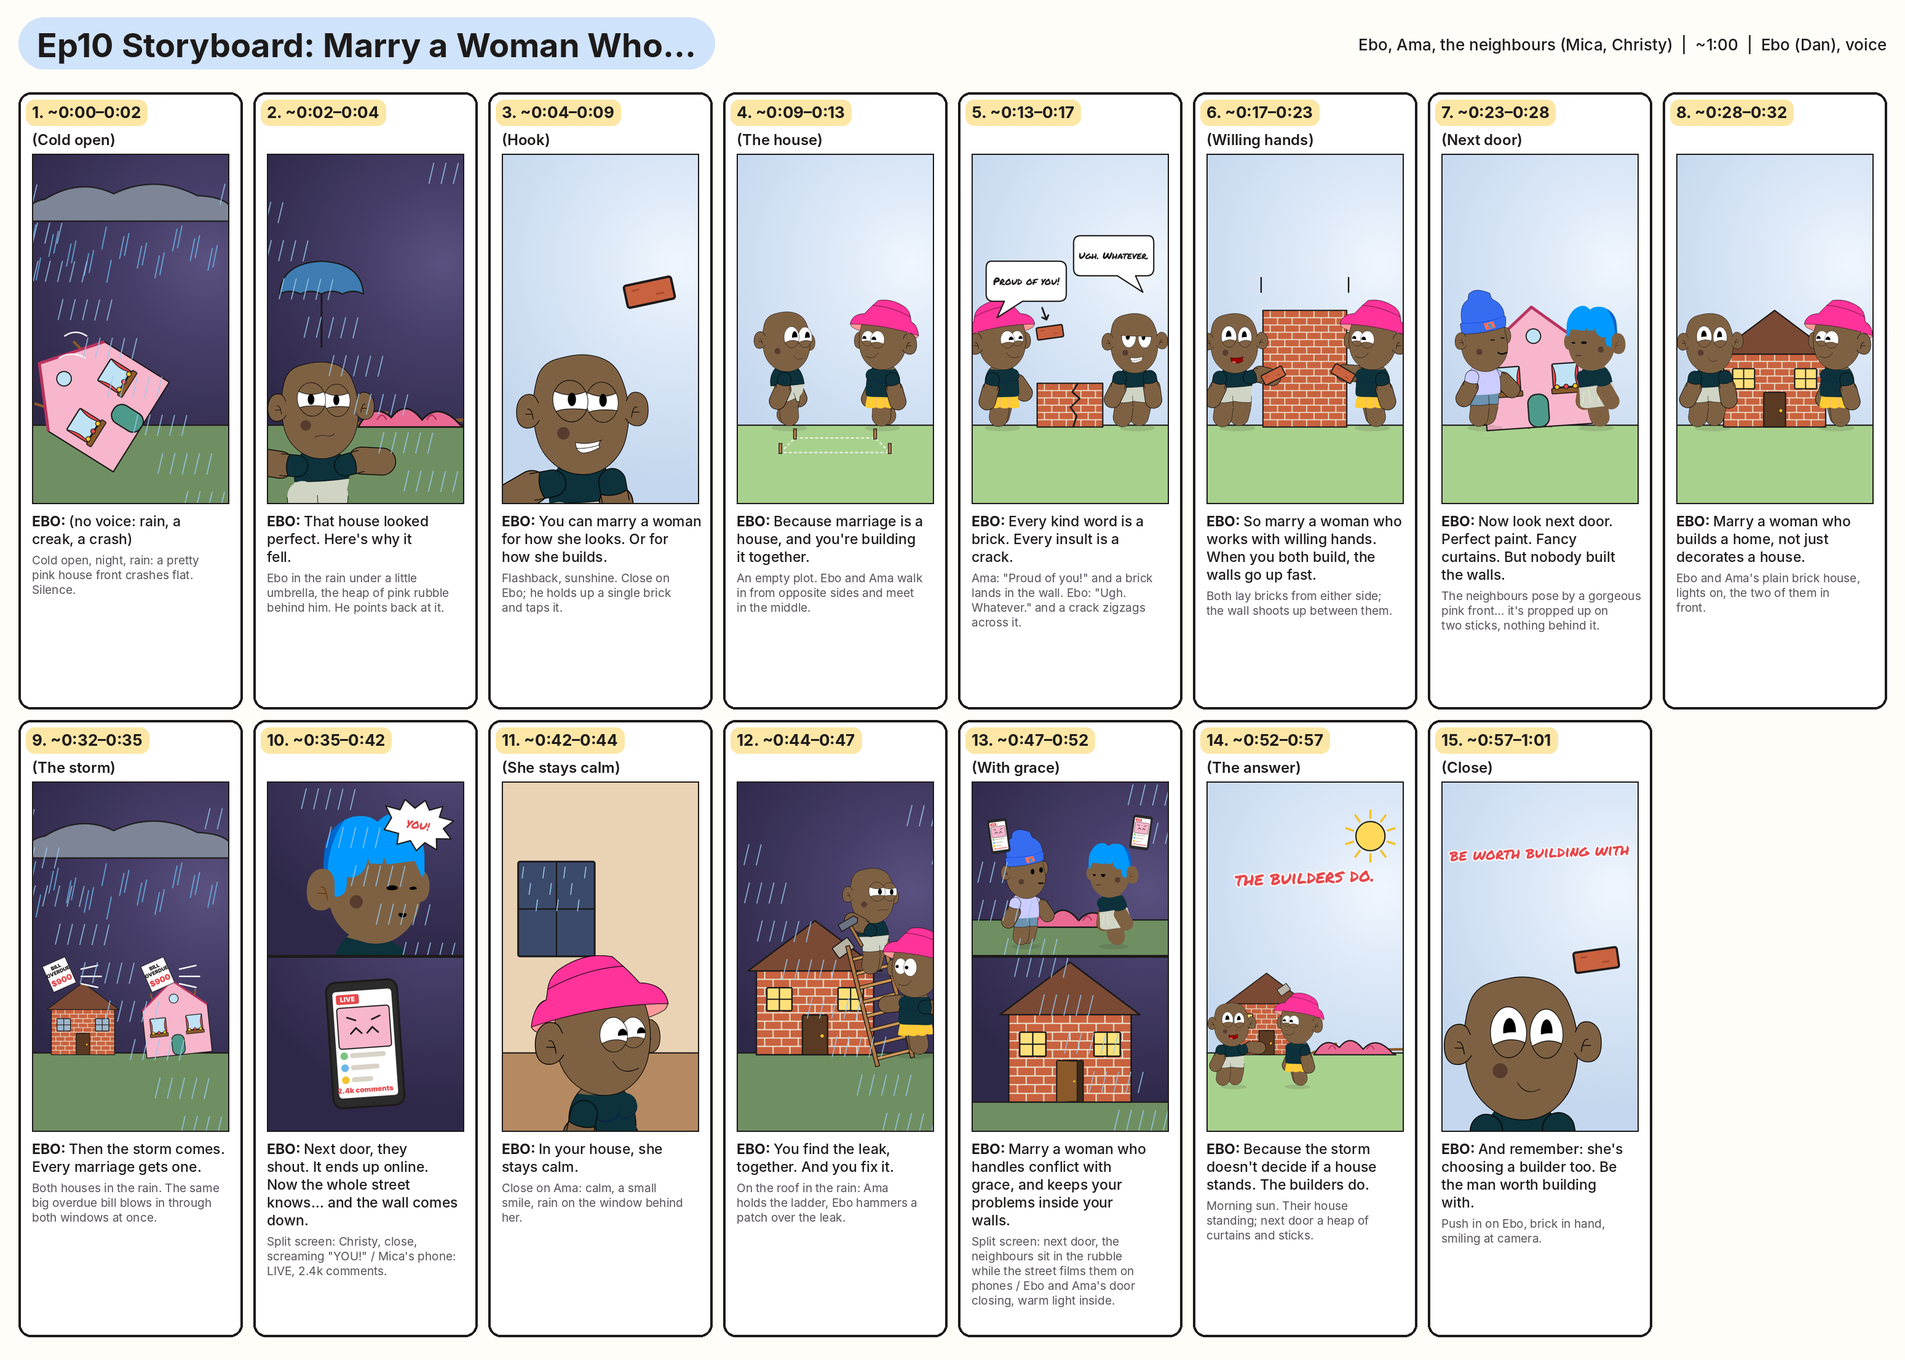
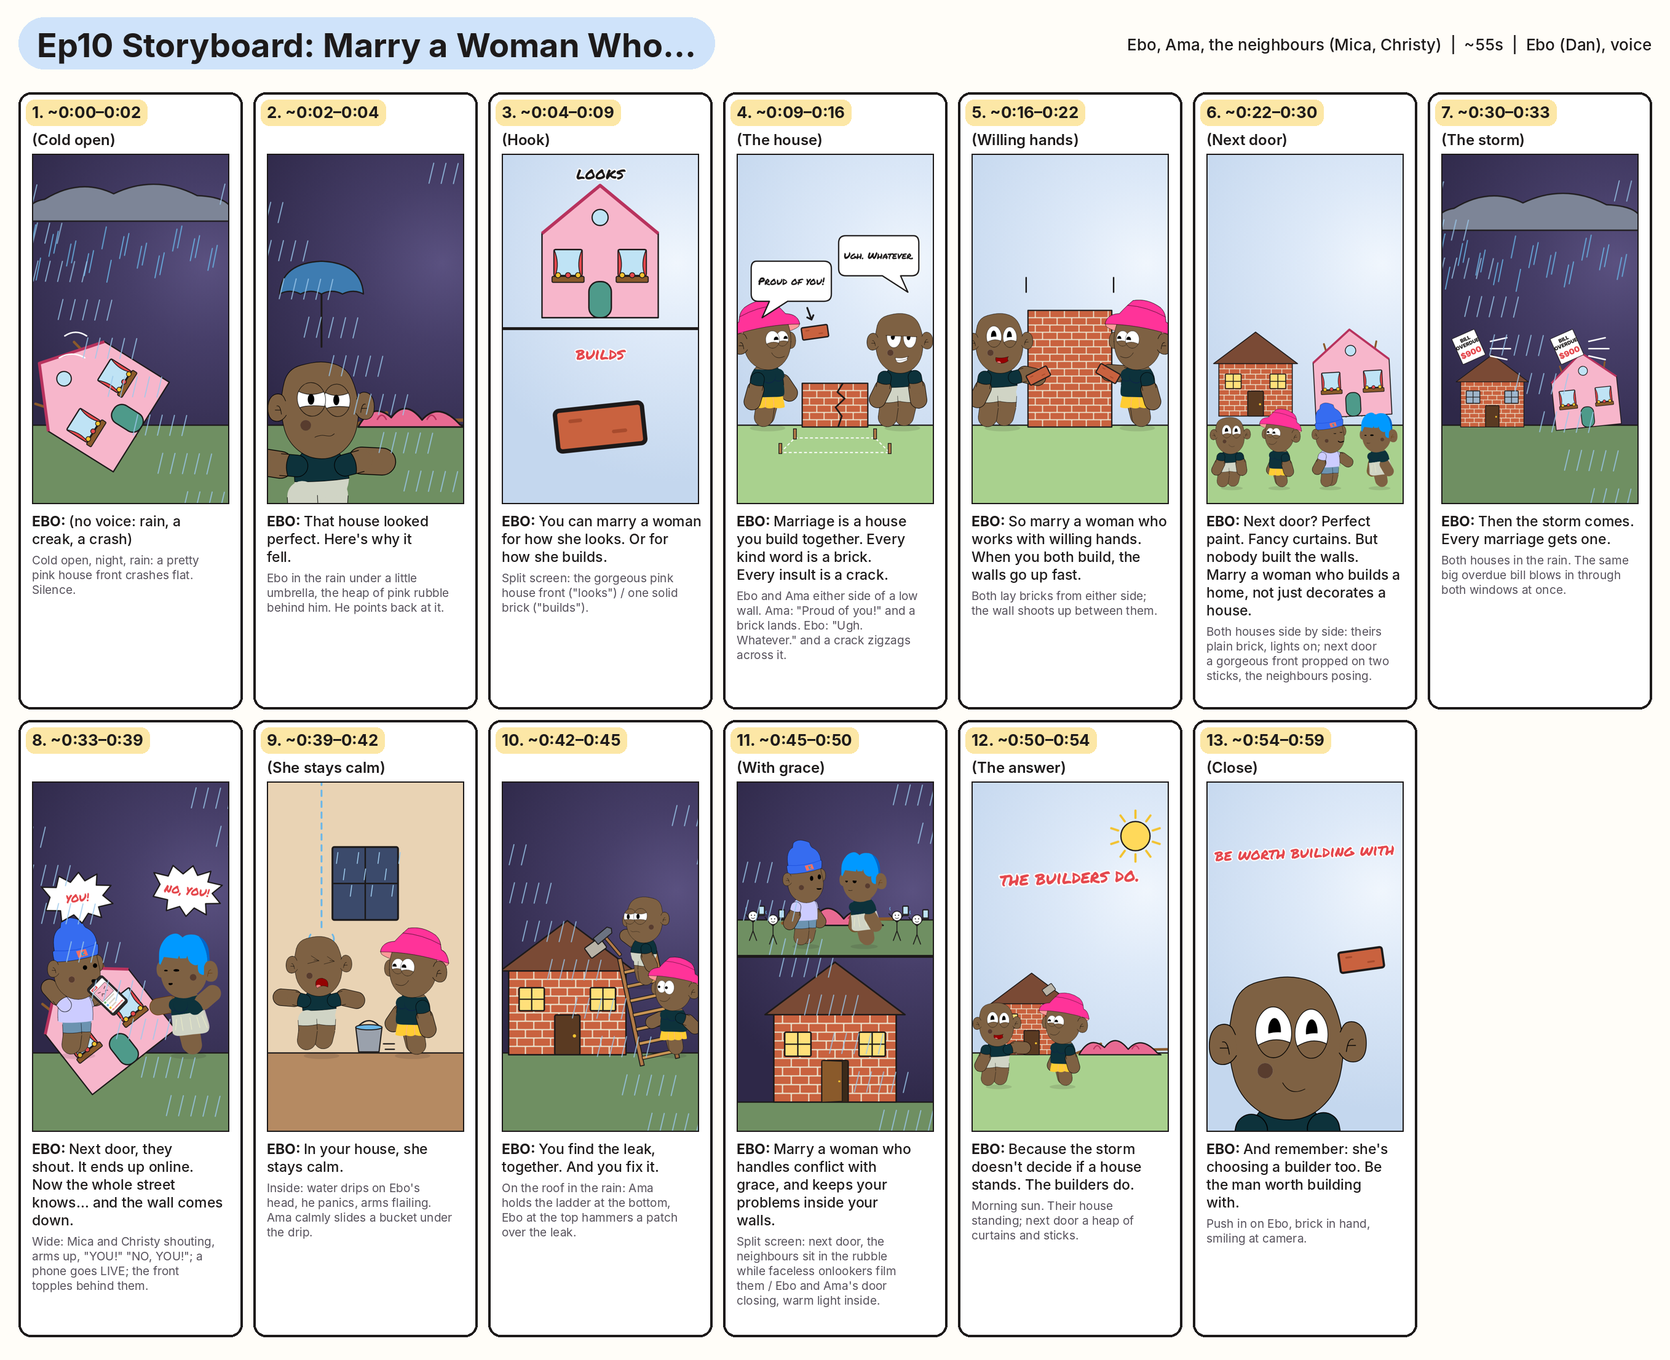
Ep10 script draft 5 and storyboard v3: picture hook, merged build-up, Ebo panics while Ama stays calm, wide fight, cleaner roof
Claude-Session: https://claude.ai/code/session_01Kn9As8DfxPWEV47cuNZdJi

diff --git a/src/series/ep10board.tsx b/src/series/ep10board.tsx
@@ -10,22 +10,22 @@ import {Backdrop} from './sets';
 import {StageSizeContext} from './exportCtx';
 import {Label, useMarkerFont} from './filterKit';
 import {Brick, BrickWall, Bucket, Door, FakeFront, Hammer, House, Plot, PostedPhone, Shout, Storm, Sun, TalkTable} from '../components/HouseProps';
-import {Arrow, FeeSlip, Ladder, SayBubble} from '../components/PovertyProps';
+import {Arrow, FeeSlip, Ladder, SayBubble, StickGuy} from '../components/PovertyProps';
 
 /**
  * Ep 10 "Marry a Woman Who…": the storyboard, one panel per frame (no voice yet, so these are stills, not the
  * animated episode). Ebo and his wife (Ama) build one house; next door the neighbours (Mica, Christy) only
  * decorate theirs; a storm hits both.
  */
-export const EP10_BOARD_PANELS = 15;
+export const EP10_BOARD_PANELS = 13;
 const FLOOR = 1500;
 
 type Look = Partial<Pose>;
-const Ebo: React.FC<{x: number; y?: number; s?: number; p?: Look; front?: boolean; hold?: React.ReactNode; touch?: keyof typeof CONTACT}> = ({x, y = FLOOR, s = 1.3, p = {}, front = true, hold, touch}) => {
+const Ebo: React.FC<{x: number; y?: number; s?: number; p?: Look; front?: boolean; facing?: 1 | -1; hold?: React.ReactNode; touch?: keyof typeof CONTACT}> = ({x, y = FLOOR, s = 1.3, p = {}, front = true, facing = 1, hold, touch}) => {
   let pose = {...POSE.stand, ...p} as Pose;
   if (touch) pose = {...pose, ...CONTACT[touch], ...p, contact: true, view: 1} as Pose;
   return (
-    <RigCharacter who="ebo" x={x} y={y} scale={s} t={0} noBlink pose={front ? gentle(frontOn(pose)) : gentle(pose)}>
+    <RigCharacter who="ebo" x={x} y={y} scale={s} facing={facing} t={0} noBlink pose={front ? gentle(frontOn(pose)) : gentle(pose)}>
       {hold}
     </RigCharacter>
   );
@@ -93,7 +93,16 @@ const Room: React.FC = () => (
   </g>
 );
 
-/** The 15 panels (the script's 15 lines, episodes/ep10/script.md). */
+/** A faceless onlooker filming on a phone. */
+const Filmer: React.FC<{x: number; y: number; k?: number}> = ({x, y, k = 0.55}) => (
+  <g transform={`translate(${x} ${y}) scale(${k})`}>
+    <StickGuy pose="climb" />
+    <rect x={56} y={-250} width={60} height={100} rx={10} fill="#2B2B2B" stroke="#1D1A1A" strokeWidth={6} />
+    <rect x={64} y={-240} width={44} height={70} rx={4} fill="#BFE3F5" />
+  </g>
+);
+
+/** The 13 panels (the script's 13 lines, episodes/ep10/script.md). */
 const PANELS: (() => React.ReactNode)[] = [
   // 1 · cold open: the pretty house crashes down in the rain
   () => (
@@ -119,27 +128,29 @@ const PANELS: (() => React.ReactNode)[] = [
   ),
   // 3 · You can marry a woman for how she looks. Or for how she builds.
   () => (
-    <g>
-      <Sky />
-      <g transform="translate(810 760) rotate(-12) scale(2.2)"><Brick /></g>
-      <Ebo x={470} y={2350} s={2.6} p={{eyes: 'squint', mouth: 'smirk', lookX: 12, lookY: -10, armL: [80, -30], brows: 'up'}} />
-    </g>
+    <Split
+      top={
+        <g>
+          <Sky />
+          <g transform="translate(540 900) scale(1.1)"><FakeFront /></g>
+          <Label x={540} y={140} text="looks" size={90} />
+        </g>
+      }
+      bottom={
+        <g>
+          <Sky />
+          <g transform="translate(540 1500) rotate(-6) scale(4)"><Brick /></g>
+          <Label x={540} y={1130} text="builds" red size={90} />
+        </g>
+      }
+    />
   ),
-  // 4 · Because marriage is a house, and you're building it together.
+  // 4 · Marriage is a house you build together. Every kind word is a brick. Every insult is a crack.
   () => (
     <g>
       <Sky />
       <Ground />
       <g transform={`translate(540 ${FLOOR + 140})`}><Plot /></g>
-      <Ebo x={290} p={{eyes: 'happy', mouth: 'smile', legL: [20, 6], legR: [-8, 0]}} front={false} />
-      <Side who="ama" x={800} facing={-1} p={{eyes: 'happy', mouth: 'smile', legL: [20, 6], legR: [-8, 0]}} />
-    </g>
-  ),
-  // 5 · Every kind word is a brick. Every insult is a crack.
-  () => (
-    <g>
-      <Sky />
-      <Ground />
       <g transform={`translate(540 ${FLOOR})`}><BrickWall w={360} rows={6} crack /></g>
       <Side who="ama" x={170} p={{eyes: 'happy', mouth: 'smile', armR: [60, -30]}} />
       <Ebo x={910} p={{eyes: 'half', mouth: 'smirk', lookX: -10}} />
@@ -150,7 +161,7 @@ const PANELS: (() => React.ReactNode)[] = [
       <Label x={780} y={578} text="Ugh. Whatever." size={52} />
     </g>
   ),
-  // 6 · So marry a woman who works with willing hands. When you both build, the walls go up fast.
+  // 5 · So marry a woman who works with willing hands. When you both build, the walls go up fast.
   () => (
     <g>
       <Sky />
@@ -161,27 +172,20 @@ const PANELS: (() => React.ReactNode)[] = [
       <path d="M 300 760 l 0 -80 M 780 760 l 0 -80" stroke="#1D1A1A" strokeWidth={8} strokeLinecap="round" />
     </g>
   ),
-  // 7 · Now look next door. Perfect paint. Fancy curtains. But nobody built the walls.
+  // 6 · Next door? Perfect paint. Fancy curtains. But nobody built the walls. Marry a woman who builds a home…
   () => (
     <g>
       <Sky />
       <Ground />
-      <g transform={`translate(540 ${FLOOR})`}><FakeFront side tilt={-4} /></g>
-      <Side who="mica" x={240} p={{eyes: 'happy', mouth: 'smile', armR: [60, -30]}} />
-      <Side who="christy" x={850} facing={-1} p={{eyes: 'happy', mouth: 'smile'}} />
+      <g transform={`translate(270 ${FLOOR - 60}) scale(0.72)`}><House /></g>
+      <g transform={`translate(810 ${FLOOR - 60}) scale(0.72)`}><FakeFront side tilt={-3} /></g>
+      <Ebo x={140} y={FLOOR + 330} s={0.8} p={{eyes: 'happy', mouth: 'smile'}} />
+      <Side who="ama" x={400} y={FLOOR + 330} s={0.8} facing={-1} p={{eyes: 'happy', mouth: 'smile'}} />
+      <Side who="mica" x={680} y={FLOOR + 330} s={0.8} p={{eyes: 'happy', mouth: 'smile', armR: [70, -30]}} />
+      <Side who="christy" x={950} y={FLOOR + 330} s={0.8} facing={-1} p={{eyes: 'happy', mouth: 'smile'}} />
     </g>
   ),
-  // 8 · Marry a woman who builds a home, not just decorates a house.
-  () => (
-    <g>
-      <Sky />
-      <Ground />
-      <g transform={`translate(540 ${FLOOR})`}><House /></g>
-      <Ebo x={200} p={{eyes: 'happy', mouth: 'smile'}} />
-      <Side who="ama" x={880} facing={-1} p={{eyes: 'happy', mouth: 'smile'}} />
-    </g>
-  ),
-  // 9 · Then the storm comes. Every marriage gets one.
+  // 7 · Then the storm comes. Every marriage gets one.
   () => (
     <g>
       <Sky storm />
@@ -194,49 +198,46 @@ const PANELS: (() => React.ReactNode)[] = [
       <Rain seed={2} />
     </g>
   ),
-  // 10 · Next door, they shout. It ends up online. Now the whole street knows… and the wall comes down.
-  () => (
-    <Split
-      topDy={-840}
-      top={
-        <g>
-          <Sky storm />
-          <Side who="christy" x={540} y={2350} s={2.6} p={{eyes: 'angry', mouth: 'scream', lookX: 12}} />
-          <g transform="translate(830 1080)"><Shout text="YOU!" rotate={8} /></g>
-          <Rain seed={3} />
-        </g>
-      }
-      bottomDy={0}
-      bottom={
-        <g>
-          <Sky storm />
-          <g transform="translate(540 1440) scale(1.5) rotate(-4)"><PostedPhone /></g>
-        </g>
-      }
-    />
-  ),
-  // 11 · In your house, she stays calm.
-  () => (
-    <g>
-      <Room />
-      <Window x={300} y={700} />
-      <Side who="ama" x={560} y={2350} s={2.6} p={{eyes: 'happy', mouth: 'smile', lookX: 10}} />
-    </g>
-  ),
-  // 12 · You find the leak, together. And you fix it.
+  // 8 · Next door, they shout. It ends up online. Now the whole street knows… and the wall comes down.
   () => (
     <g>
       <Sky storm />
       <Ground storm />
-      <g transform={`translate(430 ${FLOOR}) scale(1.15)`}><House patch lights /></g>
-      <g transform={`translate(860 ${FLOOR}) rotate(-14)`}><Ladder total={8} rungs={0} /></g>
-      <Ebo x={760} y={1060} s={1.2} p={{eyes: 'squint', mouth: 'flat', armL: [150, -10]}} front={false} />
-      <g transform="translate(640 820) rotate(-30) scale(0.7)"><Hammer /></g>
-      <Side who="ama" x={980} facing={-1} p={{eyes: 'open', mouth: 'smile', armR: [100, -20], armL: [90, -20]}} />
+      <g transform={`translate(560 ${FLOOR + 40})`}><FakeFront tilt={-38} side /></g>
+      <Side who="mica" x={250} p={{eyes: 'wide', mouth: 'scream', armL: [140, -10], armR: [120, -20]}} hold={<g transform="scale(0.35) rotate(-10)"><PostedPhone /></g>} />
+      <Side who="christy" x={860} facing={-1} p={{eyes: 'angry', mouth: 'scream', armL: [130, -10], armR: [100, -10]}} />
+      <g transform="translate(250 640)"><Shout text="YOU!" rotate={-6} /></g>
+      <g transform="translate(850 600)"><Shout text="NO, YOU!" rotate={6} /></g>
+      <Rain seed={3} />
+    </g>
+  ),
+  // 9 · In your house, she stays calm.
+  () => (
+    <g>
+      <Room />
+      <Window x={540} y={560} w={360} h={400} />
+      <path d="M 300 -10 L 300 820" stroke="#6BB7E8" strokeWidth={10} strokeDasharray="30 30" strokeLinecap="round" />
+      <path d="M 250 900 q -30 -30 -10 -60 M 350 900 q 30 -30 10 -60" fill="none" stroke="#6BB7E8" strokeWidth={9} strokeLinecap="round" />
+      <Ebo x={300} p={{eyes: 'squeeze', mouth: 'scream', armL: [150, -20], armR: [150, -20], lift: -20}} />
+      <Side who="ama" x={800} facing={-1} p={{eyes: 'happy', mouth: 'smile', armR: [40, -10]}} />
+      <g transform={`translate(560 ${FLOOR - 70}) scale(0.9)`}><Bucket /></g>
+      <path d="M 640 1440 l 60 0 M 650 1470 l 50 0" stroke="#1D1A1A" strokeWidth={7} strokeLinecap="round" />
+    </g>
+  ),
+  // 10 · You find the leak, together. And you fix it.
+  () => (
+    <g>
+      <Sky storm />
+      <Ground storm />
+      <g transform={`translate(360 ${FLOOR}) scale(1.15)`}><House patch lights /></g>
+      <g transform={`translate(860 ${FLOOR}) rotate(-12)`}><Ladder total={7} rungs={0} /></g>
+      <Ebo x={770} y={1120} s={1} facing={-1} p={{eyes: 'squint', mouth: 'flat', armR: [130, -10]}} front={false} />
+      <g transform="translate(590 880) rotate(-40) scale(0.7)"><Hammer /></g>
+      <Side who="ama" x={940} s={1.0} facing={-1} p={{eyes: 'open', mouth: 'smile', armR: [80, -20], armL: [70, -20]}} />
       <Rain seed={4} />
     </g>
   ),
-  // 13 · Marry a woman who handles conflict with grace, and keeps your problems inside your walls.
+  // 11 · Marry a woman who handles conflict with grace, and keeps your problems inside your walls.
   () => (
     <Split
       top={
@@ -244,11 +245,10 @@ const PANELS: (() => React.ReactNode)[] = [
           <Sky storm />
           <rect x={-200} y={760} width={1480} height={400} fill="#6F8F62" />
           <line x1={-200} y1={760} x2={1280} y2={760} stroke="#1D1A1A" strokeWidth={7} />
-          <g transform="translate(540 800) scale(1.2)"><FakeFront fallen /></g>
-          <Side who="mica" x={300} y={900} s={1.1} p={{eyes: 'sad', mouth: 'frown', armR: [60, -60]}} />
-          <Side who="christy" x={780} y={900} s={1.1} facing={-1} p={{eyes: 'sad', mouth: 'frown'}} />
-          <g transform="translate(150 300) scale(0.4) rotate(-8)"><PostedPhone /></g>
-          <g transform="translate(930 280) scale(0.4) rotate(8)"><PostedPhone /></g>
+          <g transform="translate(540 790) scale(1.2)"><FakeFront fallen /></g>
+          <Side who="mica" x={380} y={900} s={1} p={{eyes: 'sad', mouth: 'frown'}} />
+          <Side who="christy" x={700} y={900} s={1} facing={-1} p={{eyes: 'sad', mouth: 'frown'}} />
+          {[90, 200, 880, 990].map((fx, i) => <Filmer key={fx} x={fx} y={820 + (i % 2) * 20} />)}
           <Rain seed={5} />
         </g>
       }
@@ -265,7 +265,7 @@ const PANELS: (() => React.ReactNode)[] = [
       }
     />
   ),
-  // 14 · Because the storm doesn't decide if a house stands. The builders do.
+  // 12 · Because the storm doesn't decide if a house stands. The builders do.
   () => (
     <g>
       <Sky />
@@ -278,7 +278,7 @@ const PANELS: (() => React.ReactNode)[] = [
       <Label x={540} y={560} text="the builders do." red size={100} rot={-2} />
     </g>
   ),
-  // 15 · And remember: she's choosing a builder too. Be the man worth building with.
+  // 13 · And remember: she's choosing a builder too. Be the man worth building with.
   () => (
     <g>
       <Sky />

diff --git a/scripts/storyboard/ep10_sheet.py b/scripts/storyboard/ep10_sheet.py
@@ -7,11 +7,11 @@ panels_dir, out = sys.argv[1:3]
 rows_md = [r for r in open('episodes/ep10/script.md').read().splitlines() if re.match(r'\| \d+ \|', r)]
 shots = [[c.strip() for c in r.strip('|').split('|')][1:3] for r in rows_md]
 ims = sorted(glob.glob(f'{panels_dir}/s*.png'))
-TAGS = {0: 'Cold open', 2: 'Hook', 3: 'The house', 5: 'Willing hands', 6: 'Next door', 8: 'The storm', 10: 'She stays calm', 12: 'With grace', 13: 'The answer', 14: 'Close'}
+TAGS = {0: 'Cold open', 2: 'Hook', 3: 'The house', 4: 'Willing hands', 5: 'Next door', 6: 'The storm', 8: 'She stays calm', 10: 'With grace', 11: 'The answer', 12: 'Close'}
 from PIL import ImageFont
 F = lambda w, s: ImageFont.truetype(f'/usr/share/fonts/opentype/inter/Inter-{w}.otf', s)
 INK, YEL, BLUE, GREY = '#1D1A1A', '#FCE7A6', '#CFE3FA', '#55505A'
-COLS, PW, PH, PAD, TXT = 8, 320, 569, 22, 330
+COLS, PW, PH, PAD, TXT = 7, 320, 569, 22, 330
 CW, CH = PW + 2 * PAD, 104 + PH + TXT
 rows = (len(shots) + COLS - 1) // COLS
 W = 30 + COLS * (CW + 18) + 12
@@ -22,7 +22,7 @@ title = 'Ep10 Storyboard: Marry a Woman Who…'
 tw = d.textlength(title, font=F('Bold', 54))
 d.rounded_rectangle([30, 28, 30 + tw + 60, 112], radius=42, fill=BLUE)
 d.text((60, 40), title, font=F('Bold', 54), fill=INK)
-info = 'Ebo, Ama, the neighbours (Mica, Christy)  |  ~1:00  |  Ebo (Dan), voice'
+info = 'Ebo, Ama, the neighbours (Mica, Christy)  |  ~55s  |  Ebo (Dan), voice'
 d.text((W - 30 - d.textlength(info, font=F('Medium', 26)), 56), info, font=F('Medium', 26), fill=INK)
 t = 0.0
 fmt = lambda s: f'{int(s // 60)}:{int(s % 60):02d}'

diff --git a/episodes/ep10/script.md b/episodes/ep10/script.md
@@ -1,27 +1,25 @@
 # Ep 10 — Marry a Woman Who…
 
-Draft 4, 2026-11-10. Topic from the user (an image post by @tatendanhema — credit it in the caption).
+Draft 5, 2026-11-10. Topic from the user (an image post by @tatendanhema — credit it in the caption).
 Faith left out; addressed to men; a life lesson, no money advice. Three qualities, told as one story: two houses,
-one storm, only one stands. Draft 4 opens cold on the collapse, shows the storm (the same bill hits both houses),
-cuts close-ups at the climax, puts the fix on the roof, and drops most labels. (Drafts 1–3 are in git.)
-Cast (CAST.md roles): Ebo and his wife Ama; the neighbours Mica and Christy. Voice: Ebo (Dan), confident throughout.
+one storm, only one stands. Draft 5: the hook is a picture (the pretty front vs one brick), the build-up is merged so
+the storm lands by ~0:22, Ebo panics while Ama stays calm, the neighbours' fight is wide. (Drafts 1–4 are in git.)
+Cast (CAST.md roles): Ebo and his wife Ama; the neighbours Mica and Christy; faceless onlookers. Voice: Ebo (Dan).
 
 | # | Ebo says | Picture |
 |---|---|---|
 | 1 | *(no voice — rain, a creak, a crash)* | Cold open, night, rain: a pretty pink house front crashes flat. Silence. |
 | 2 | That house looked perfect. Here's why it fell. | Ebo in the rain under a little umbrella, the heap of pink rubble behind him. He points back at it. |
-| 3 | You can marry a woman for how she looks. Or for how she builds. | Flashback, sunshine. Close on Ebo; he holds up a single brick and taps it. |
-| 4 | Because marriage is a house, and you're building it together. | An empty plot. Ebo and Ama walk in from opposite sides and meet in the middle. |
-| 5 | Every kind word is a brick. Every insult is a crack. | Ama: "Proud of you!" and a brick lands in the wall. Ebo: "Ugh. Whatever." and a crack zigzags across it. |
-| 6 | So marry a woman who works with willing hands. When you both build, the walls go up fast. | Both lay bricks from either side; the wall shoots up between them. |
-| 7 | Now look next door. Perfect paint. Fancy curtains. But nobody built the walls. | The neighbours pose by a gorgeous pink front… it's propped up on two sticks, nothing behind it. |
-| 8 | Marry a woman who builds a home, not just decorates a house. | Ebo and Ama's plain brick house, lights on, the two of them in front. |
-| 9 | Then the storm comes. Every marriage gets one. | Both houses in the rain. The same big overdue bill blows in through both windows at once. |
-| 10 | Next door, they shout. It ends up online. Now the whole street knows… and the wall comes down. | Split screen: Christy, close, screaming "YOU!" / Mica's phone: LIVE, 2.4k comments. |
-| 11 | In your house, she stays calm. | Close on Ama: calm, a small smile, rain on the window behind her. |
-| 12 | You find the leak, together. And you fix it. | On the roof in the rain: Ama holds the ladder, Ebo hammers a patch over the leak. |
-| 13 | Marry a woman who handles conflict with grace, and keeps your problems inside your walls. | Split screen: next door, the neighbours sit in the rubble while the street films them on phones / Ebo and Ama's door closing, warm light inside. |
-| 14 | Because the storm doesn't decide if a house stands. The builders do. | Morning sun. Their house standing; next door a heap of curtains and sticks. |
-| 15 | And remember: she's choosing a builder too. Be the man worth building with. | Push in on Ebo, brick in hand, smiling at camera. |
+| 3 | You can marry a woman for how she looks. Or for how she builds. | Split screen: the gorgeous pink house front ("looks") / one solid brick ("builds"). |
+| 4 | Marriage is a house you build together. Every kind word is a brick. Every insult is a crack. | Ebo and Ama either side of a low wall. Ama: "Proud of you!" and a brick lands. Ebo: "Ugh. Whatever." and a crack zigzags across it. |
+| 5 | So marry a woman who works with willing hands. When you both build, the walls go up fast. | Both lay bricks from either side; the wall shoots up between them. |
+| 6 | Next door? Perfect paint. Fancy curtains. But nobody built the walls. Marry a woman who builds a home, not just decorates a house. | Both houses side by side: theirs plain brick, lights on; next door a gorgeous front propped on two sticks, the neighbours posing. |
+| 7 | Then the storm comes. Every marriage gets one. | Both houses in the rain. The same big overdue bill blows in through both windows at once. |
+| 8 | Next door, they shout. It ends up online. Now the whole street knows… and the wall comes down. | Wide: Mica and Christy shouting, arms up, "YOU!" "NO, YOU!"; a phone goes LIVE; the front topples behind them. |
+| 9 | In your house, she stays calm. | Inside: water drips on Ebo's head, he panics, arms flailing. Ama calmly slides a bucket under the drip. |
+| 10 | You find the leak, together. And you fix it. | On the roof in the rain: Ama holds the ladder at the bottom, Ebo at the top hammers a patch over the leak. |
+| 11 | Marry a woman who handles conflict with grace, and keeps your problems inside your walls. | Split screen: next door, the neighbours sit in the rubble while faceless onlookers film them / Ebo and Ama's door closing, warm light inside. |
+| 12 | Because the storm doesn't decide if a house stands. The builders do. | Morning sun. Their house standing; next door a heap of curtains and sticks. |
+| 13 | And remember: she's choosing a builder too. Be the man worth building with. | Push in on Ebo, brick in hand, smiling at camera. |
 
-About 155 words + the cold open, ~58 seconds.
+About 150 words + the cold open, ~55 seconds.
